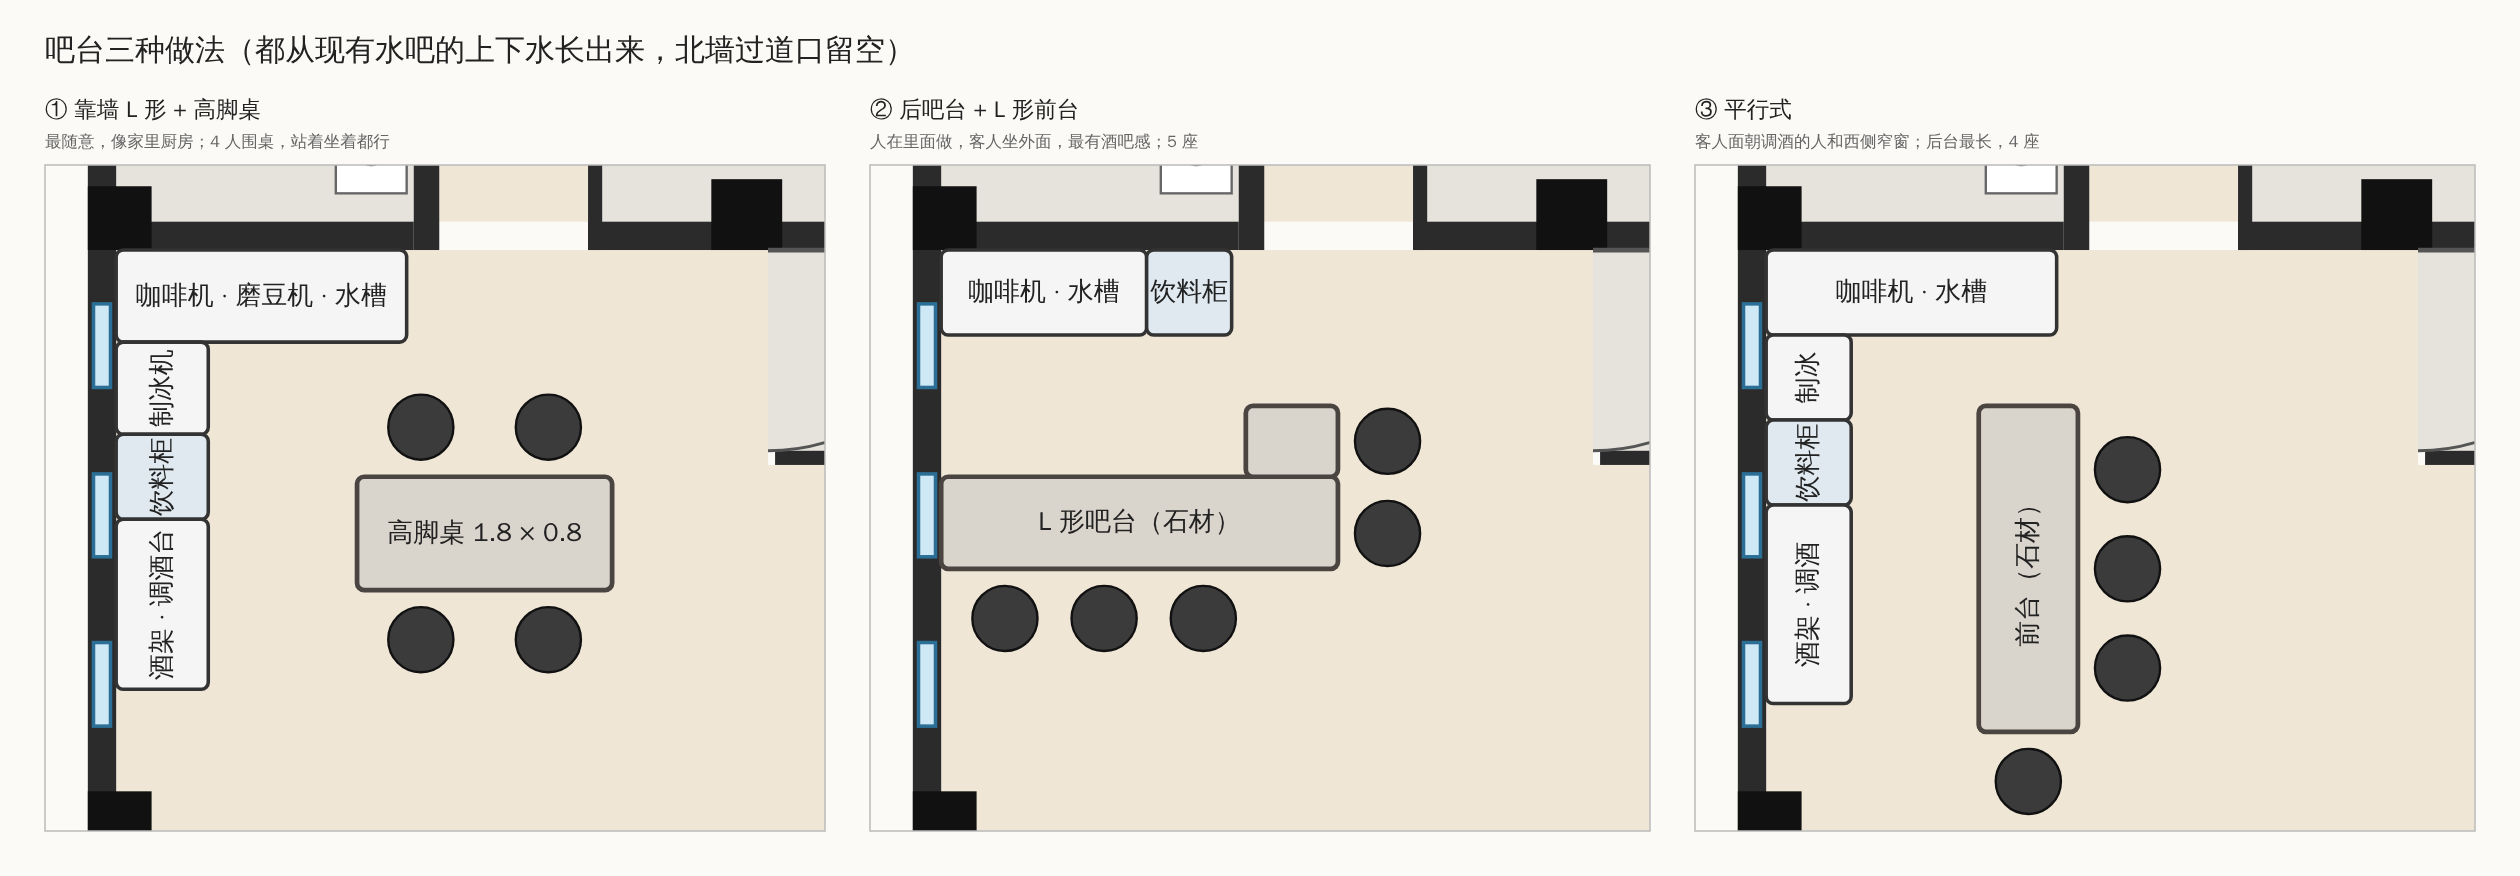
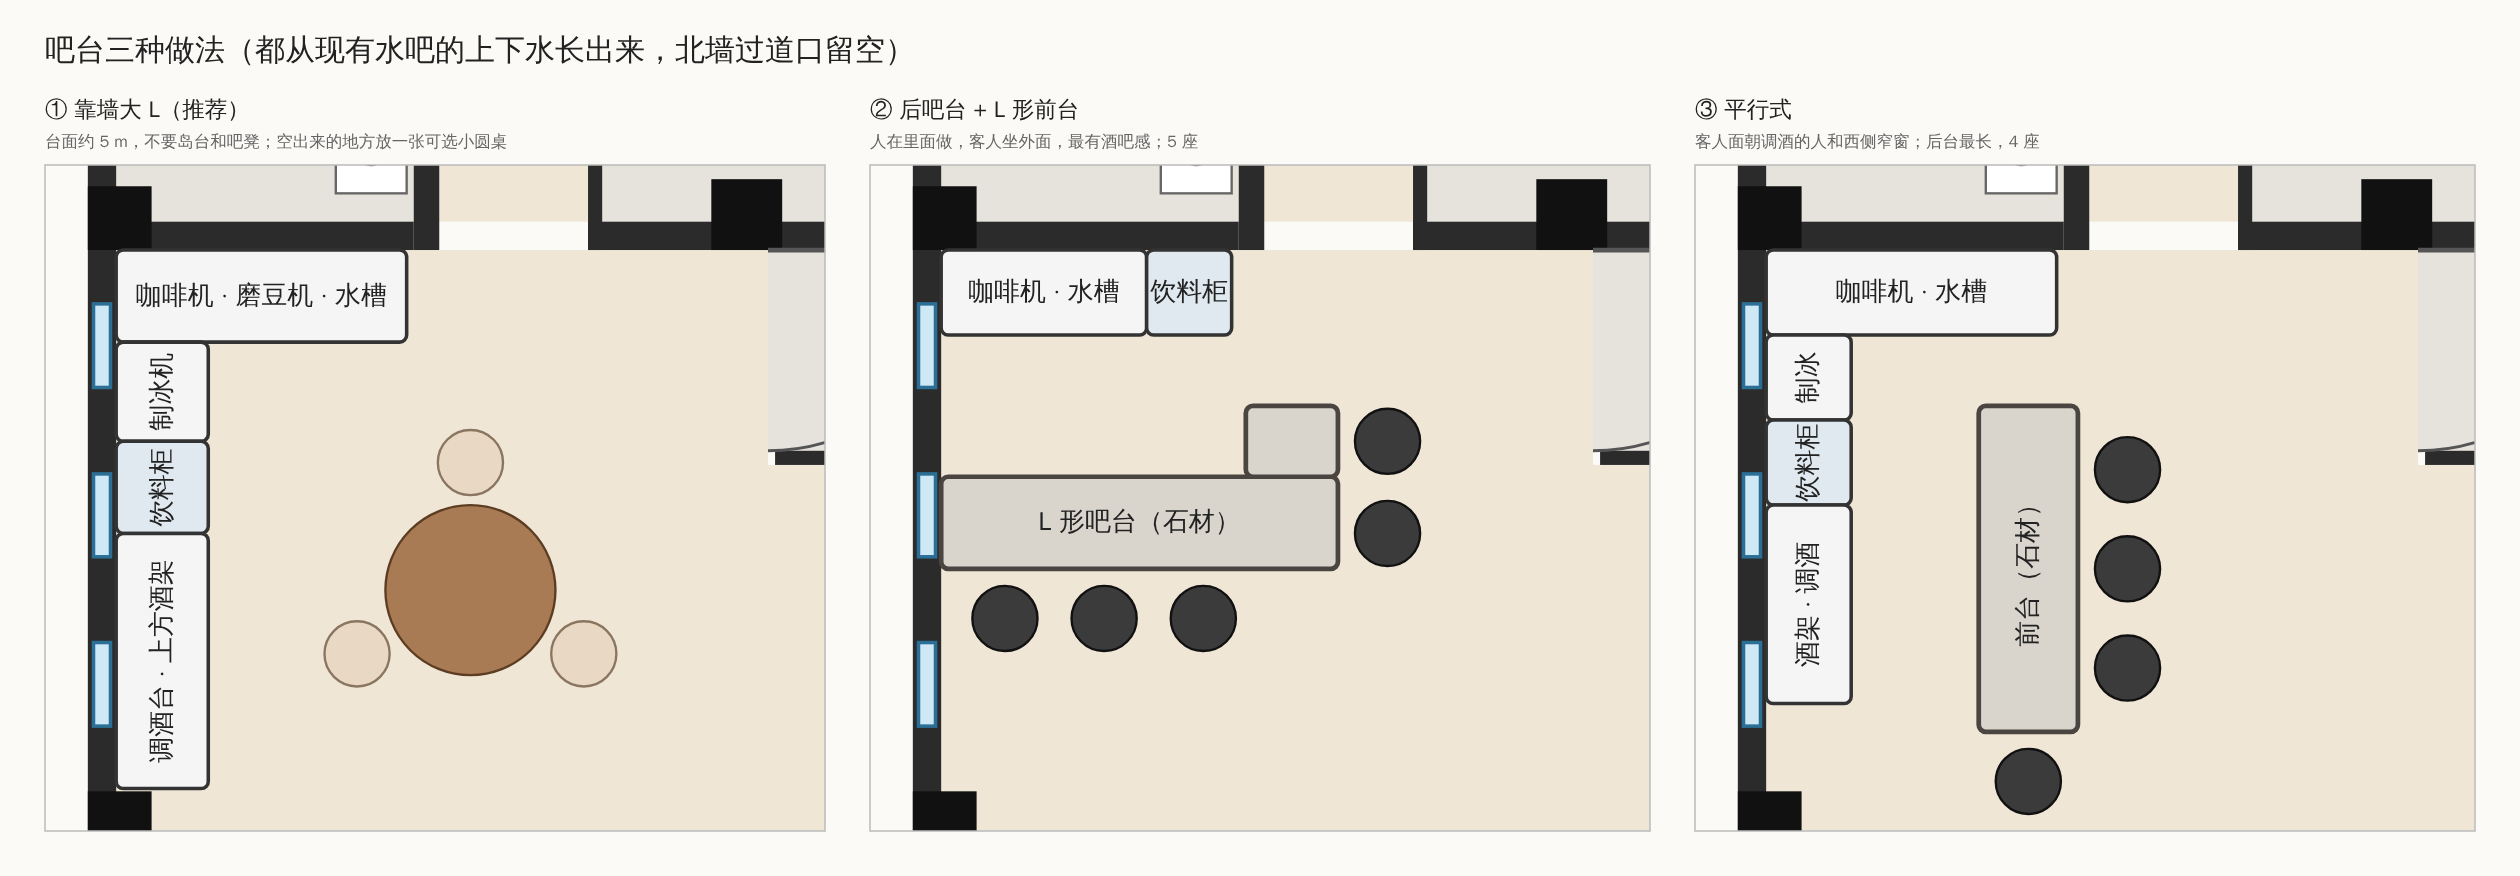
Floor plan A: wall-hugging L bar and a large L-shaped sofa
Bar becomes a ~5 m L along the north and west walls (coffee, sink,
ice maker, beverage fridge, cocktail station) with no island or
stools; an optional small round table fills the freed area. Living
room gets a big L sofa (long side to the TV, short side facing the
balcony) and a single lounge chair.

Claude-Session: https://claude.ai/code/session_01UszicjF1djv9j8mqGC9SHb

Changed region(s): [[0.1238, 0.4315, 0.2476, 0.7705], [0.031, 0.4007, 0.0929, 0.9247], [0.0, 0.0925, 0.2167, 0.1849]]

diff --git a/loft-floor-plan/floor_plan.py b/loft-floor-plan/floor_plan.py
@@ -131,16 +131,15 @@ BASE = dict(
 
 # 三种吧台做法，都以现有水吧的上下水为起点（北墙 = 卫生间南墙，Y 3800；西墙内皮 X 200）。
 # 北墙 X 2300–3530 是去卫生间 / 储藏间的过道口，必须留空。
-BAR_WALL_L = [   # ① 靠墙 L 形 + 高脚桌：最随意，像厨房里的吧台
+BAR_WALL_L = [   # ① 靠墙大 L：北墙咖啡区 + 西墙调酒区，台面约 5 m，不要岛台和吧凳
     dict(r=(200, 3800, 2250, 4450), label="咖啡机 · 磨豆机 · 水槽", cls="bar"),
-    dict(r=(200, 4450, 850, 5100), label="制冰机", cls="bar", rot=True),
-    dict(r=(200, 5100, 850, 5700), label="饮料柜", cls="fridge", rot=True),
-    dict(r=(200, 5700, 850, 6900), label="酒架 · 调酒台", cls="bar", rot=True),
-    dict(r=(1900, 5400, 3700, 6200), label="高脚桌 1.8 × 0.8", cls="counter"),
-    dict(c=(2350, 5050, 230), label="", cls="stool"),
-    dict(c=(3250, 5050, 230), label="", cls="stool"),
-    dict(c=(2350, 6550, 230), label="", cls="stool"),
-    dict(c=(3250, 6550, 230), label="", cls="stool"),
+    dict(r=(200, 4450, 850, 5150), label="制冰机", cls="bar", rot=True),
+    dict(r=(200, 5150, 850, 5800), label="饮料柜", cls="fridge", rot=True),
+    dict(r=(200, 5800, 850, 7600), label="调酒台 · 上方酒架", cls="bar", rot=True),
+    dict(c=(2700, 6200, 600), label="", cls="wood"),
+    dict(c=(2700, 5300, 230), label="", cls="soft"),
+    dict(c=(1900, 6650, 230), label="", cls="soft"),
+    dict(c=(3500, 6650, 230), label="", cls="soft"),
 ]
 BAR_L_COUNTER = [  # ② 后吧台 + L 形前台：人在里面做，客人在外面坐，最有酒吧感
     dict(r=(200, 3800, 1650, 4400), label="咖啡机 · 水槽", cls="bar"),
@@ -181,20 +180,20 @@ BALCONY_SET = [
 PLAN_A = dict(
     file="plan_a",
     title="方案 A · 东半区做客厅（大电视 + 4329P），西翼南端安静的 deep work",
-    subtitle="电视挂东墙中间柱子上，沙发面朝东、阳台在右手边；单人椅背靠前室墙面朝阳台；书桌在最里面，用双面矮书架和吧台隔开",
+    subtitle="吧台靠墙做大 L（约 5 m 台面），不要岛台和高凳；大 L 沙发长边对电视、短边朝阳台；书桌在最里面，用双面矮书架隔开",
     pencil="applied",
     zones=[
-        dict(r=(200, 3800, 4800, 7000), label="", cls="z-bar"),
-        dict(r=(5400, 5500, 9300, 9700), label="", cls="z-rug"),
+        dict(r=(200, 3800, 4800, 7600), label="", cls="z-bar"),
+        dict(r=(5400, 5400, 9300, 9800), label="", cls="z-rug"),
         dict(r=(500, 9800, 4500, 12500), label="", cls="z-work"),
     ],
-    furniture=BAR_L_COUNTER + [
-        # 客厅：电视在东墙中间（柱子那段实墙），沙发面朝东，阳台在右手边
-        dict(r=(5600, 6575, 6600, 9175), label="三人沙发", cls="sofa", rot=True),
-        dict(r=(7000, 7175, 7800, 8575), label="茶几", cls="wood", rot=True),
-        dict(r=(6700, 5600, 7550, 6450), label="单人椅", cls="leather"),
-        dict(r=(8000, 5600, 8850, 6450), label="单人椅", cls="leather"),
-        dict(c=(5800, 9550, 200), label="", cls="lamp"),
+    furniture=BAR_WALL_L + [
+        # 客厅：大 L 沙发，长边面朝东墙电视，短边靠前室墙面朝阳台；单人椅在东北角
+        dict(r=(5600, 5500, 6600, 9300), label="大 L 形沙发", cls="sofa", rot=True),
+        dict(r=(6600, 5500, 7800, 6500), label="", cls="sofa"),
+        dict(r=(7000, 6950, 8200, 8350), label="茶几", cls="wood"),
+        dict(r=(8150, 5550, 9000, 6400), label="单人椅", cls="leather"),
+        dict(c=(6100, 9650, 200), label="", cls="lamp"),
         dict(c=(9100, 10300, 300), label="", cls="plant"),
         # 工作区
         dict(r=(500, 9150, 3300, 9550), label="双面矮书架 1.2 m 高", cls="wood"),
@@ -209,7 +208,8 @@ PLAN_A = dict(
             speakers=[(9400, 6100, 9750, 6450), (9400, 9300, 9750, 9650)],
             speaker_labels=[(9575, 5850), (9575, 9900)], listeners=[(6200, 7875)]),
     notes=[
-        (3700, 4650, "吧台 ②", "zone-lbl"),
+        (2600, 4750, "吧台 · 靠墙大 L", "zone-lbl"),
+        (2700, 6200, "小圆桌\n（可选）", "lbl"),
         (7900, 9400, "客厅 · 看片 / 听歌", "zone-lbl"),
         (2400, 9900, "Deep work", "zone-lbl"),
         (2400, 10620, "显示器 32\"", "lbl lbl-inv"),
@@ -264,7 +264,7 @@ BAR_SHEET = dict(
     title="吧台三种做法（都从现有水吧的上下水长出来，北墙过道口留空）",
     view=(-300, 3200, 5500, 4700),
     panels=[
-        ("① 靠墙 L 形 + 高脚桌", "最随意，像家里厨房；4 人围桌，站着坐着都行", BAR_WALL_L),
+        ("① 靠墙大 L（推荐）", "台面约 5 m，不要岛台和吧凳；空出来的地方放一张可选小圆桌", BAR_WALL_L),
         ("② 后吧台 + L 形前台", "人在里面做，客人坐外面，最有酒吧感；5 座", BAR_L_COUNTER),
         ("③ 平行式", "客人面朝调酒的人和西侧窄窗；后台最长，4 座", BAR_PARALLEL),
     ],

diff --git a/loft-floor-plan/README.md b/loft-floor-plan/README.md
@@ -11,9 +11,9 @@ python3 floor_plan.py     # 生成 base.svg / plan_a.svg / plan_b.svg / bar_opti
 | --- | --- |
 | `floor_plan.py` | 建筑数据用图纸坐标（`DRAWING_*`），家具用转正后的平面坐标，渲染成 SVG |
 | `base.svg` / `.png` | 原图纸 + 铅笔修改（红色 = 划掉，橙色 = 新增） |
-| `plan_a.svg` / `.png` | 方案 A：东半区做客厅（77" 电视挂东墙中间、4329P 在两侧，沙发面朝东、阳台在侧面），西翼南端做 deep work |
+| `plan_a.svg` / `.png` | 方案 A：吧台靠墙做大 L（无岛台）；东半区客厅用大 L 沙发 + 一把单人椅，77" 电视挂东墙中间；西翼南端做 deep work |
 | `plan_b.svg` / `.png` | 方案 B：西翼新加一道电视墙隔开吧台和 lounge，东半区做工作室 |
-| `bar_options.svg` / `.png` | 吧台三种做法：① 靠墙 L 形 + 高脚桌，② 后吧台 + L 形前台，③ 平行式 |
+| `bar_options.svg` / `.png` | 吧台三种做法：① 靠墙大 L（推荐），② 后吧台 + L 形前台，③ 平行式 |
 
 ## 定位
 
